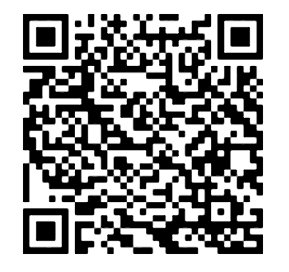
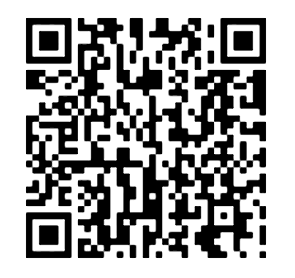
new qr

diff --git a/qr.html b/qr.html
@@ -11,7 +11,7 @@
     <div class="qr-code">
       <img src="./media/QR.png" alt="QR Code">
     </div>
-    <a href="https://expo.dev/artifacts/eas/53mfMV6f6pr9anmY9e5aWq.apk" class="qr-link" target="_blank">Click Me!</a>
+    <a href="https://expo.dev/artifacts/eas/eUV5Y8LM6Xpw4sLz6ekey5.apk" class="qr-link" target="_blank">Click Me!</a>
   </div>
   
   <script>
